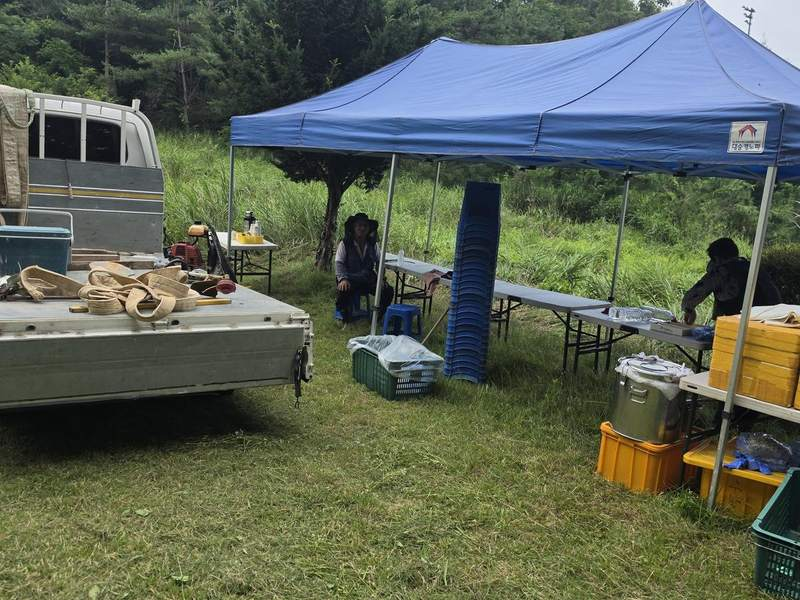
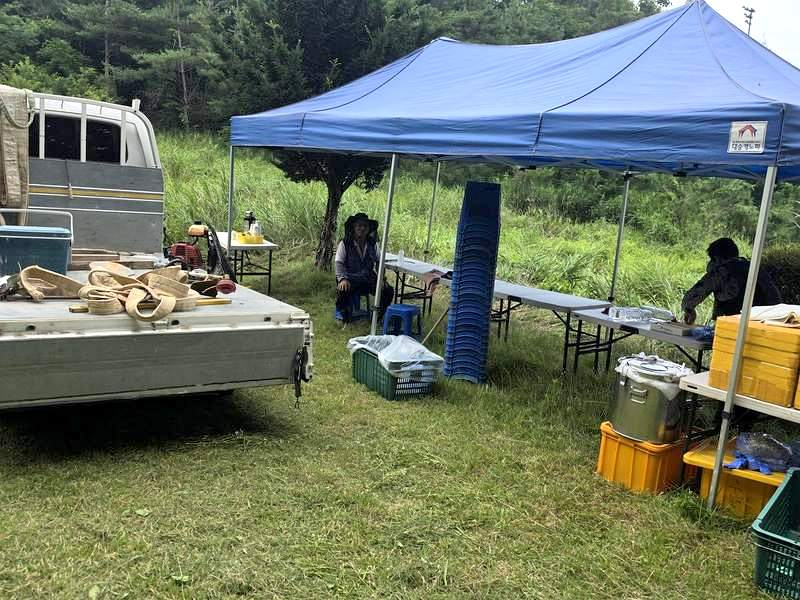
어두운 사진 3장 밝기 보정 (prep-5, prep-2, 시제 앨범 sije-10)
- 밝기 기준으로만 대비를 늘려 음식 색은 유지 (밝기 71→94, 96→113, 91→99)
- 얼굴 가림이 들어간 사이트 사본에서 보정 (원본 아님)
- 바꾼 사진 ?v= 올림, sw.js CACHE v28

diff --git a/index.html b/index.html
@@ -171,10 +171,10 @@
       <h3 class="prep__title">준비하는 모습</h3>
       <div class="prep__grid">
         <img src="images/prep-1.jpg?v=2" alt="행사장에 도착한 트럭과 천막" loading="lazy">
-        <img src="images/prep-2.jpg?v=2" alt="트럭에서 짐을 내리고 천막을 세우는 모습" loading="lazy">
+        <img src="images/prep-2.jpg?v=3" alt="트럭에서 짐을 내리고 천막을 세우는 모습" loading="lazy">
         <img src="images/prep-3.jpg?v=2" alt="천막 아래 차려 둔 배식대" loading="lazy">
         <img src="images/prep-4.jpg?v=2" alt="배식대에서 음식을 나누는 모습" loading="lazy">
-        <img src="images/prep-5.jpg?v=2" alt="재실에서 상을 차리는 뒷모습" loading="lazy">
+        <img src="images/prep-5.jpg?v=3" alt="재실에서 상을 차리는 뒷모습" loading="lazy">
         <img src="images/prep-6.jpg?v=2" alt="산소 앞에서 상을 차리는 모습" loading="lazy">
       </div>
     </div>
@@ -248,7 +248,7 @@
         </button>
         <div class="album is-collapsed" id="album-sije">
           <button class="album__item" type="button" data-src="images/album/sije-11.jpg"><img src="images/album/sije-11.jpg" alt="시제상차림 사례 1" loading="lazy"></button>
-          <button class="album__item" type="button" data-src="images/album/sije-10.jpg"><img src="images/album/sije-10.jpg" alt="시제상차림 사례 2" loading="lazy"></button>
+          <button class="album__item" type="button" data-src="images/album/sije-10.jpg?v=2"><img src="images/album/sije-10.jpg?v=2" alt="시제상차림 사례 2" loading="lazy"></button>
           <button class="album__item" type="button" data-src="images/album/sije-19.jpg"><img src="images/album/sije-19.jpg" alt="시제상차림 사례 3" loading="lazy"></button>
           <button class="album__item" type="button" data-src="images/album/sije-13.jpg"><img src="images/album/sije-13.jpg" alt="시제상차림 사례 4" loading="lazy"></button>
           <button class="album__item" type="button" data-src="images/album/sije-02.jpg?v=2"><img src="images/album/sije-02.jpg?v=2" alt="시제상차림 사례 5" loading="lazy"></button>

diff --git a/sw.js b/sw.js
@@ -1,6 +1,6 @@
 /* 푸드벨 서비스 워커 — 오프라인 기본 지원 + 홈 화면 앱 실행
    내용을 크게 바꿨을 때는 아래 CACHE 버전 숫자를 올리세요. */
-const CACHE = 'foodbell-v27';
+const CACHE = 'foodbell-v28';
 
 /* 처음 설치할 때 미리 받아두는 최소한의 파일 (앱 껍데기) */
 const PRECACHE = [
